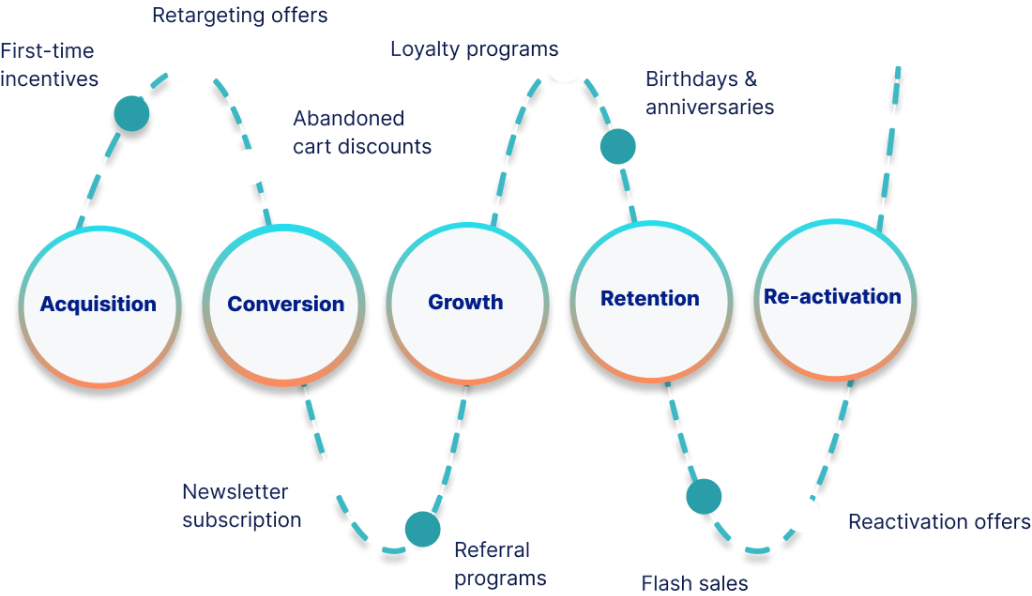
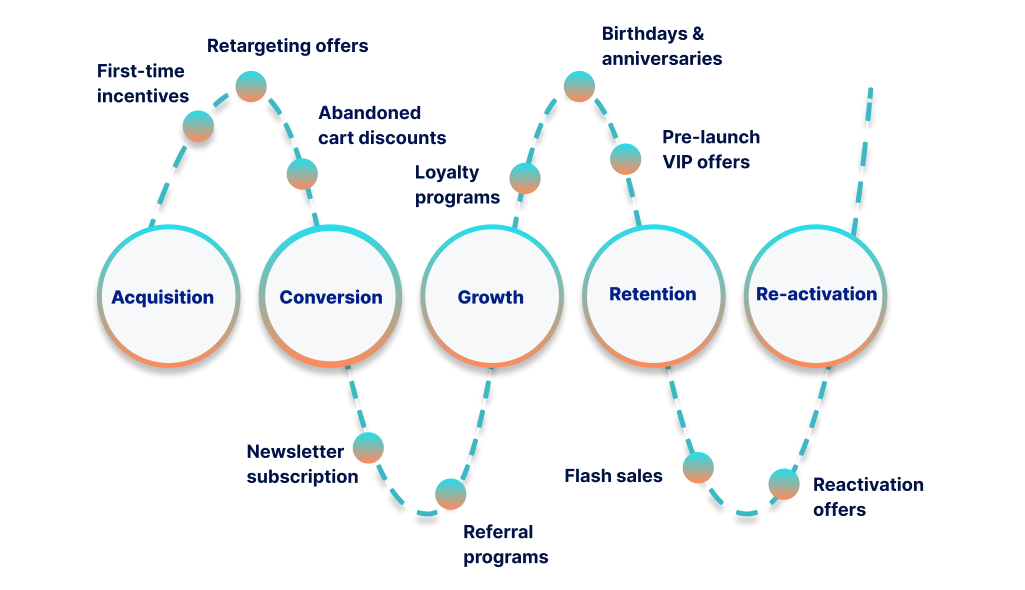
Development plus welcome
Changes:
- Category `Implementation blueprint` -> `Development`
- Welcome to Voucherify: new images, minor corrections

diff --git a/scripts/manage-project.ts b/scripts/manage-project.ts
@@ -16,7 +16,7 @@ const version =
 const listOfGuideCategories = [
   "Getting started",
   "Integration Blueprint",
-  "Implementation Blueprint",
+  "Development",
   "Building blocks",
   "Campaigns Recipes",
   "Discounts Recipes",

diff --git a/docs/guides/getting_started/Welcome-to-Voucherify.md b/docs/guides/getting_started/Welcome-to-Voucherify.md
@@ -35,11 +35,7 @@ Voucherify is perfect for ecommerce brands transitioning to MACH and building a 
 
 Voucherify enhances store capabilities with advanced promotions, crucial for revenue. At the same time, Voucherify opens the door to loyalty and referral programs without the need to integrate any additional platform.
 
-<!-- Customer story – CASA 
-
-Discover the full story 
-
-DTC Ecommerce -->
+<!--
 
 > 👍 Customer story – Breville
 > 
@@ -63,9 +59,18 @@ DTC Ecommerce -->
 > 
 > </details>
 
+-->
+
+> 👍 Customer story – Breville
+> 
+> See how [Breville](https://www.voucherify.io/customers/breville "How Breville is Winning Digital Transformation with Voucherify and Friends") integrated Voucherify with commercetools.
+
+
 ## On-demand services
 
 Whether it’s fin-tech, ed-tech, mobility, or anything else, Voucherify is a driving force for customer engagement (especially in the context of recent changes in ad tracking). With a flexible data model and integrations with leading CDP and CRM platforms, mobile apps can make the most of the collected data in minimal time.
+
+<!--
 
 > 👍 Customer story – Taxfix 
 > <details>
@@ -94,6 +99,13 @@ Whether it’s fin-tech, ed-tech, mobility, or anything else, Voucherify is a dr
 >
 > </details>
 
+-->
+
+> 👍 Customer story – Taxfix 
+>
+> See how [Taxfix](https://www.voucherify.io/customers/taxfix "How Taxfix increased referral registrations by 95% with Voucherify and Braze?") doubles referrals with Voucherify.
+
+<!--
 ## QSRs
 
 
@@ -119,6 +131,16 @@ QSRs often need to handle a large volume of data in real-time. Voucherify provid
 > Read the [whole BAEMIN story](https://www.voucherify.io/customers/baemin "How BAEMIN Vietnam handled over 60 million redemptions in a coupon-hungry market")
 >
 > </details>
+
+-->
+
+## Software vendors
+
+Voucherify APIs can be effectively integrated into other software tools to drastically enhance the offer of technology vendors. Voucherify has already been successfully incorporated into mobility technologies, booking services, and ecommerce and marketplace engines.
+
+> 👍 Customer story – Grinta
+>
+> See how [Grinta](https://www.voucherify.io/customers/grinta "How Grinta uses Voucherify to increase AOV by 20%") boosts AOV by 20% with Voucherify.
 
 ## What problems does Voucherify solve?
 

diff --git a/docs/guides/getting_started/Introduction.md b/docs/guides/getting_started/Introduction.md
@@ -16,7 +16,7 @@ The documentation is divided into four main categories.
 
 2. **[Integration Blueprint](doc:integration-overview)** - Discover how to seamlessly plan your integration and learn how to build advanced promotion limits to personalize your campaigns and prevent fraud. Recommended for architects and readers who want to know how to plan out the integration.
 
-3. **[Implementation Blueprint](doc:welcome)** - Dive into detailed implementation options, including example data mapping, processes, and more. Recommended for developers and integrators.
+3. **[Development](doc:welcome)** - Dive into detailed development options, including example data mapping, processes, and more. Recommended for developers and integrators.
 
 4. **[API Reference](doc:api-reference)** - Explore endpoints and attributes with request/response examples and error messages.
 

diff --git a/docs/guides/development/implementation-checklist.md b/docs/guides/development/implementation-checklist.md
@@ -1,7 +1,7 @@
 ---
-title: Implementation checklist
+title: Development checklist
 excerpt: Get the documentation, sample code, and developer tools — everything you need to build digital promotions faster
-categorySlug: implementation-blueprint
+categorySlug: development
 slug: welcome
 type: basic
 hidden: false

diff --git a/docs/guides/development/Quickstart.md b/docs/guides/development/Quickstart.md
@@ -1,7 +1,7 @@
 ---
 title: First steps in Voucherify
 excerpt: Get started with Voucherify API and dashboard by redeeming your first coupon code.
-categorySlug: implementation-blueprint
+categorySlug: development
 slug: quickstart
 type: basic
 hidden: false

diff --git a/docs/guides/development/Examples.md b/docs/guides/development/Examples.md
@@ -1,7 +1,7 @@
 ---
 title: Examples
 excerpt: Here are some exemplary integrations and third-party guides for you to learn more about Voucherify.
-categorySlug: implementation-blueprint
+categorySlug: development
 slug: examples
 type: basic
 hidden: false

diff --git a/docs/guides/development/Authentication.md b/docs/guides/development/Authentication.md
@@ -1,7 +1,7 @@
 ---
 title: Authentication
 excerpt: Authorization methods and principles used to access the Voucherify platform HTTP APIs.
-categorySlug: implementation-blueprint
+categorySlug: development
 slug: authentication
 type: basic
 hidden: false

diff --git a/docs/guides/development/API-Version-Upgrades.md b/docs/guides/development/API-Version-Upgrades.md
@@ -1,7 +1,7 @@
 ---
 title: API Version Upgrades
 excerpt: Keep track of changes and upgrades to the Voucherify API.
-categorySlug: implementation-blueprint
+categorySlug: development
 slug: api-version-upgrades
 type: basic
 hidden: false

diff --git a/docs/guides/development/Test-Mode-Sandbox.md b/docs/guides/development/Test-Mode-Sandbox.md
@@ -1,7 +1,7 @@
 ---
 title: Test mode (Sandbox)
 excerpt: Run integration tests of your promotions before going to production
-categorySlug: implementation-blueprint
+categorySlug: development
 slug: testing
 type: basic
 hidden: false

diff --git a/docs/guides/development/API-Optimization.md b/docs/guides/development/API-Optimization.md
@@ -1,7 +1,7 @@
 ---
 title: API Optimization
 excerpt: API calls optimization
-categorySlug: implementation-blueprint
+categorySlug: development
 slug: api-optimization
 type: basic
 hidden: false

diff --git a/docs/guides/development/Metadata-Mapping.md b/docs/guides/development/Metadata-Mapping.md
@@ -1,7 +1,7 @@
 ---
 title: Metadata Mapping
 excerpt: Metadata mapping
-categorySlug: implementation-blueprint
+categorySlug: development
 slug: metadata-mapping
 type: basic
 hidden: false

diff --git a/docs/guides/development/integration-connectors.md b/docs/guides/development/integration-connectors.md
@@ -1,7 +1,7 @@
 ---
 title: Integration and connectors
 excerpt:
-categorySlug: implementation-blueprint
+categorySlug: development
 slug: integration-connectors
 type: link
 hidden: false
